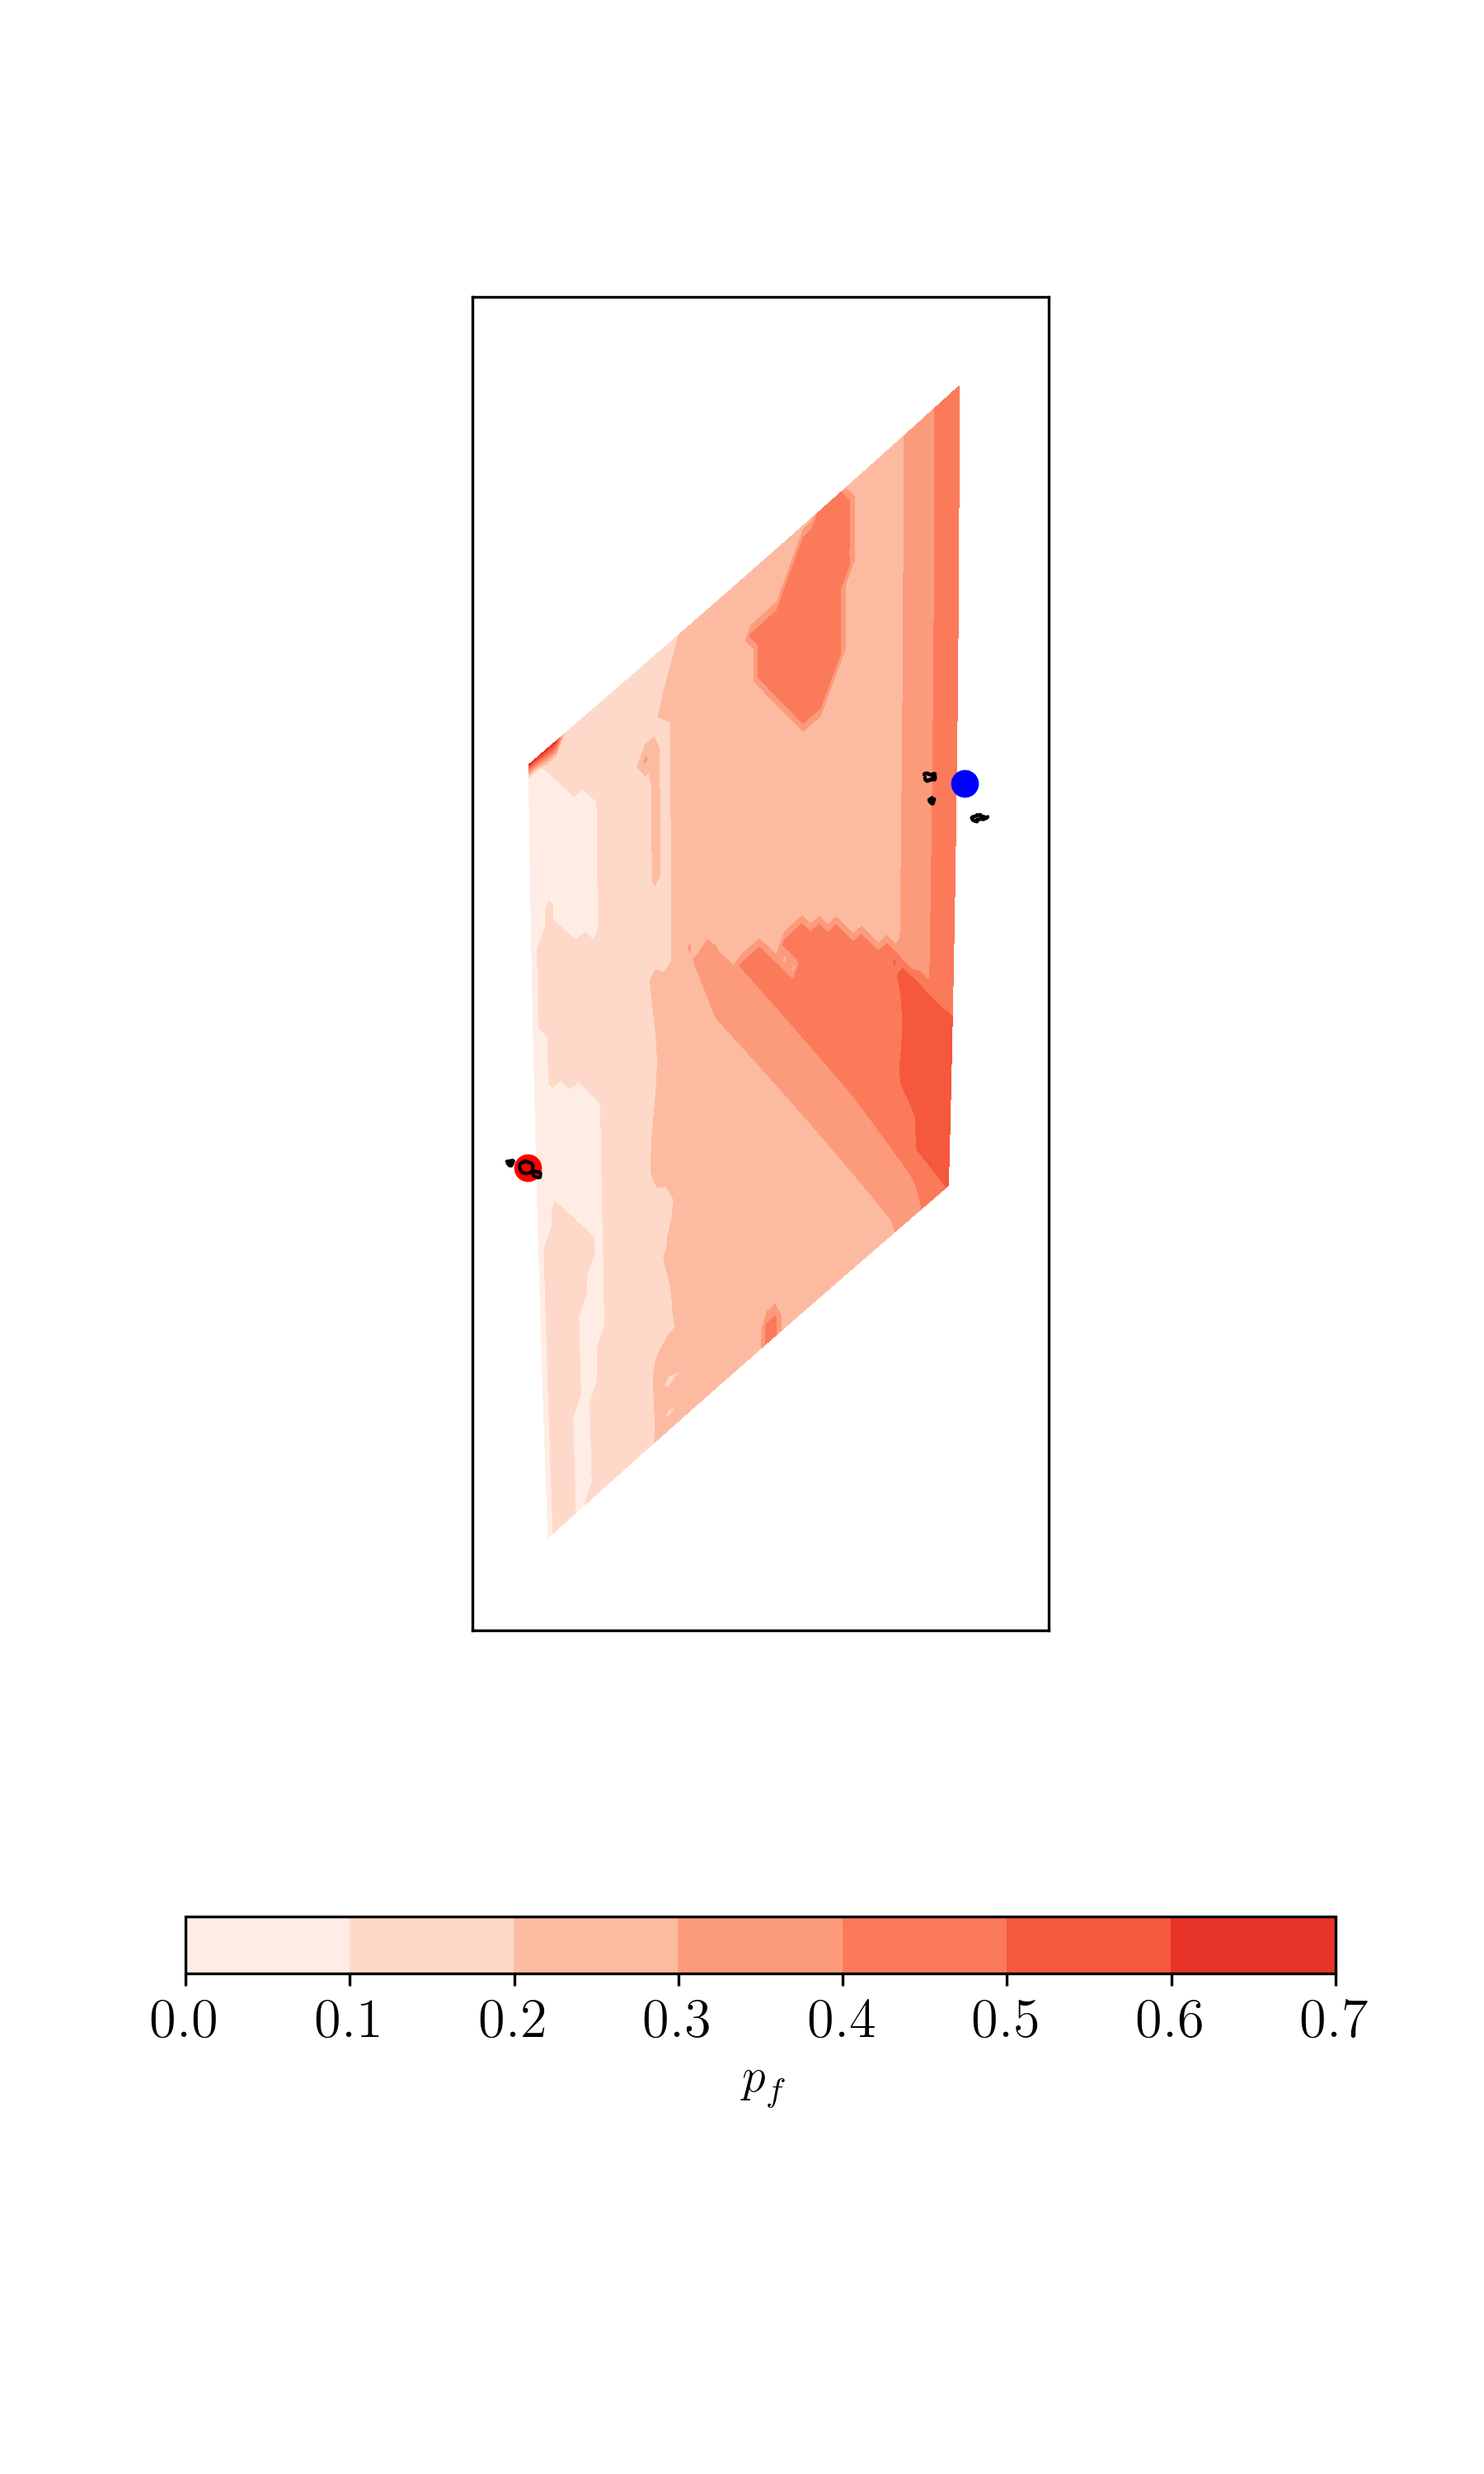
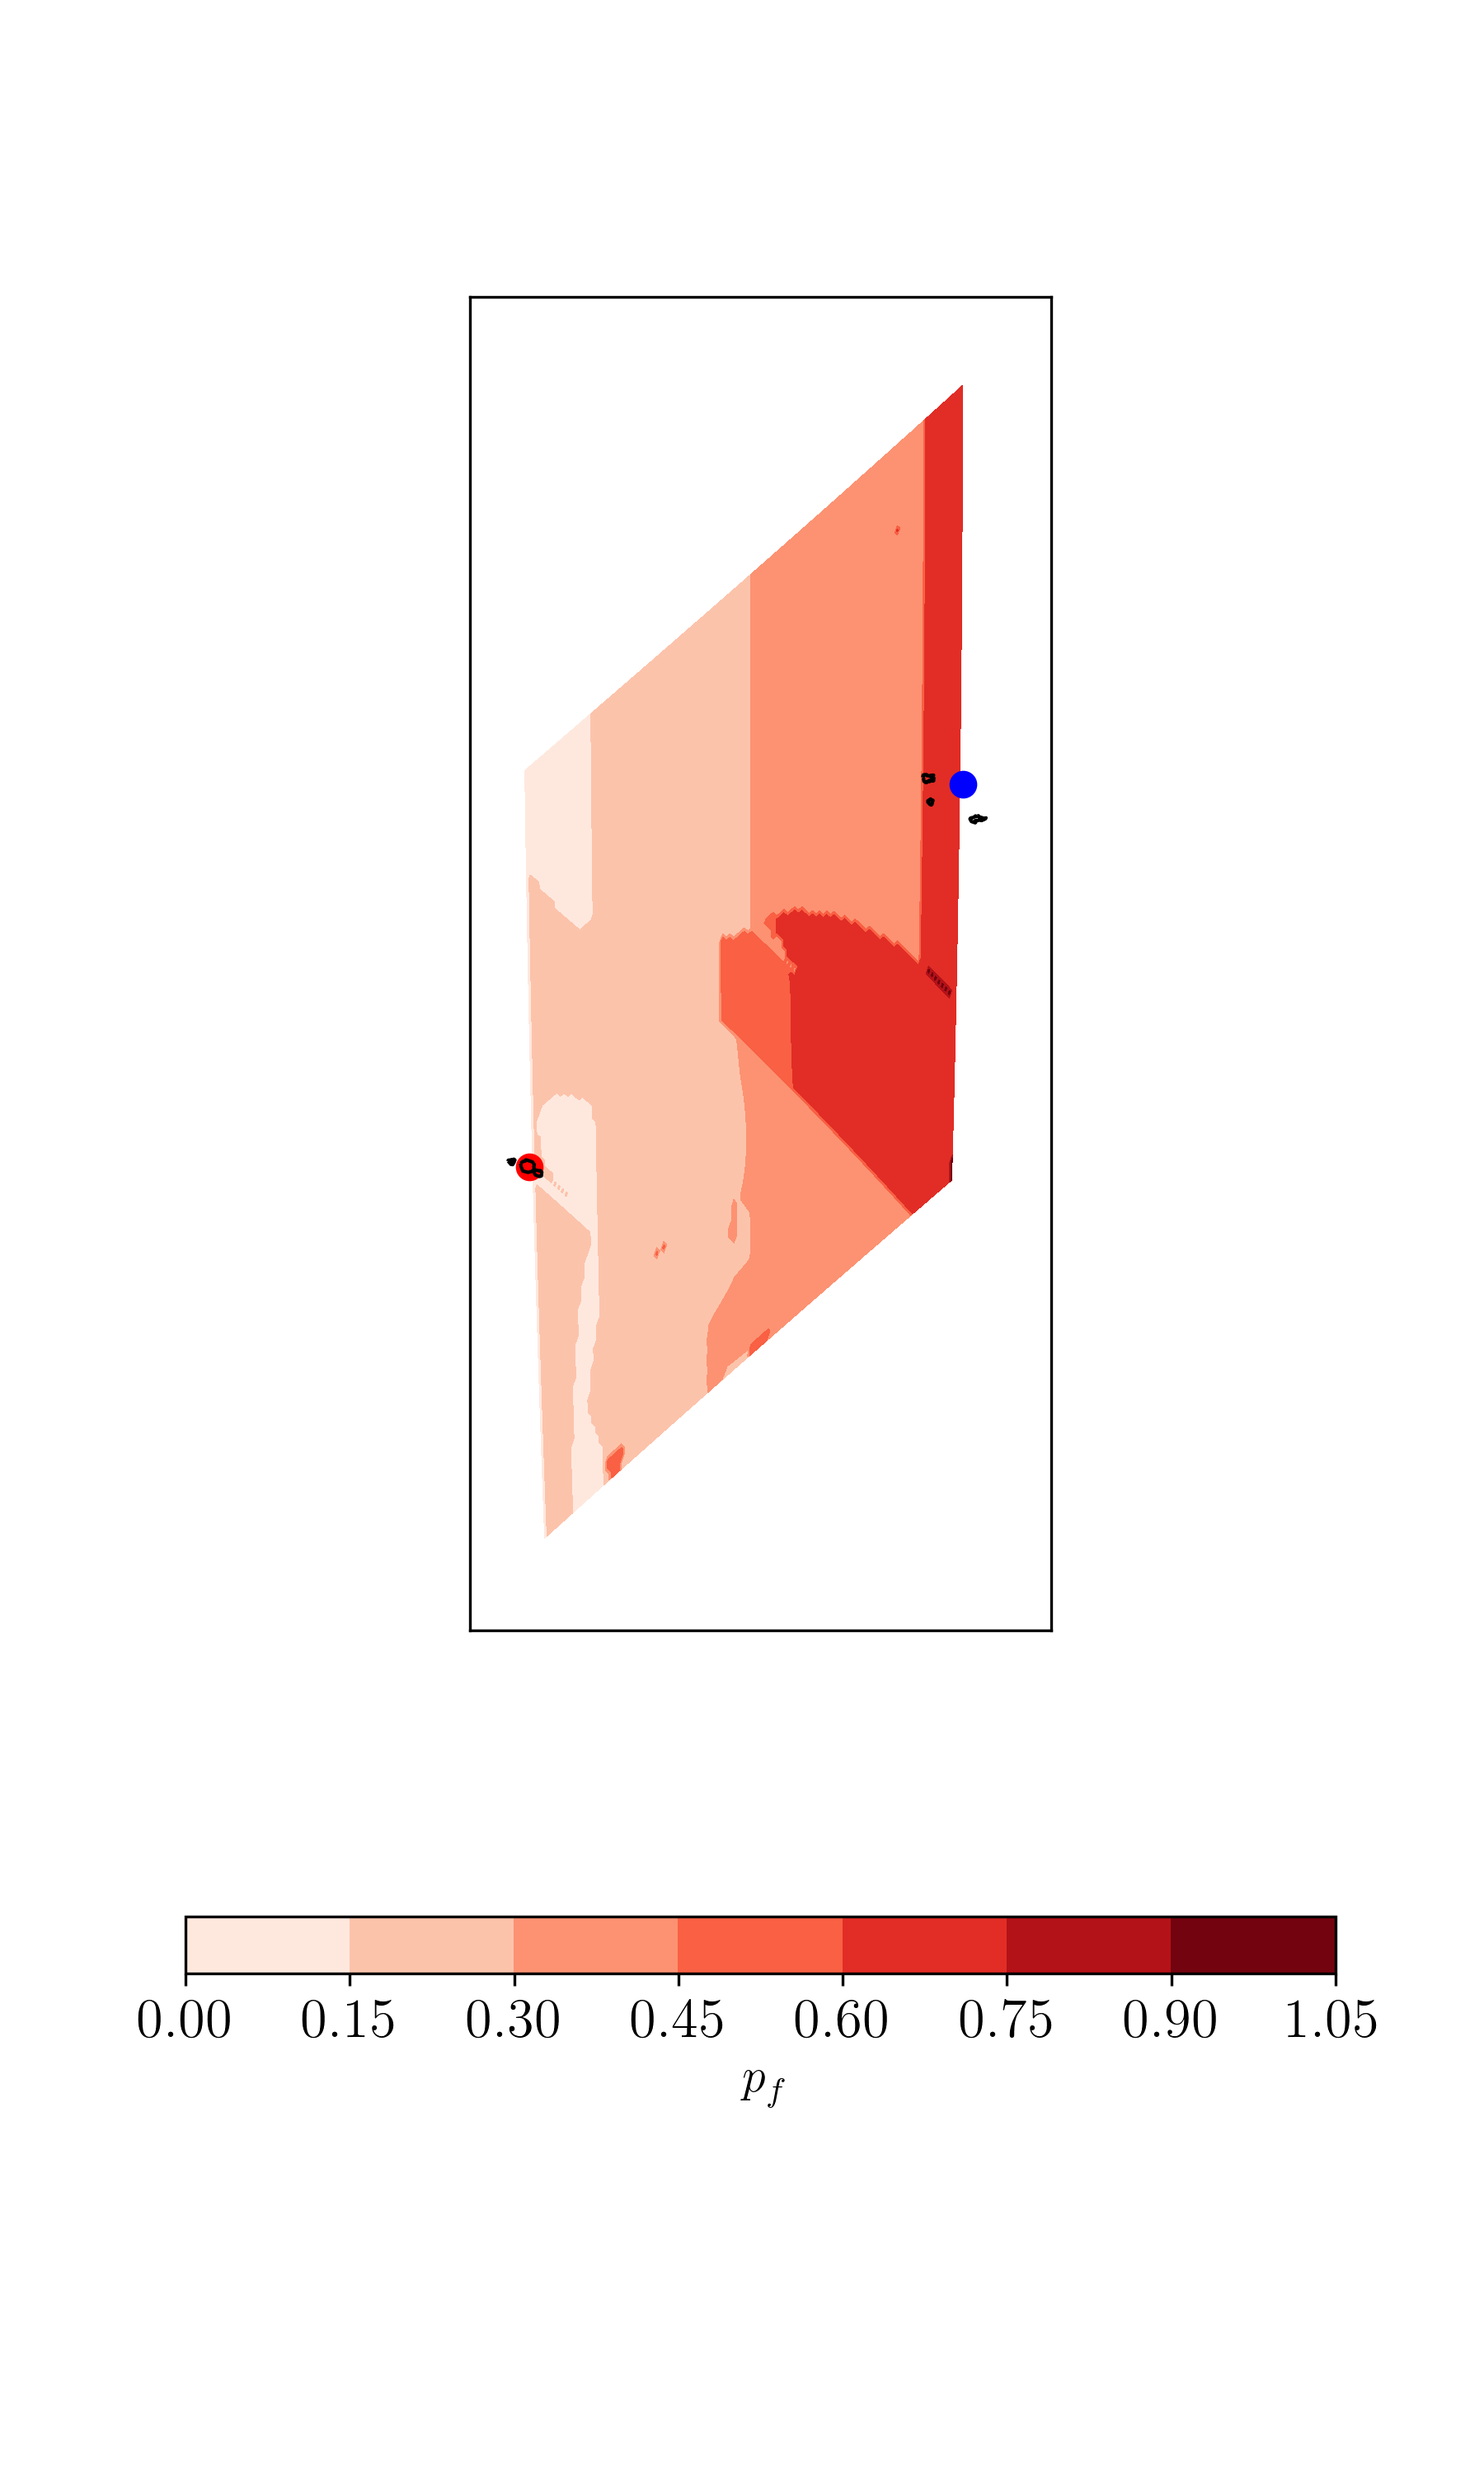
shortest path working

diff --git a/sail_route/sail_routing.py b/sail_route/sail_routing.py
@@ -4,6 +4,8 @@ Thomas Dickson
 thomas.dickson@soton.ac.uk
 """
 
+import sys
+import inspect
 import numpy as np
 import datetime
 from datetime import datetime
@@ -14,11 +16,20 @@ from mpl_toolkits.basemap import Basemap
 import matplotlib.pyplot as plt
 from sail_route.time_func import timefunc
 from sail_route.route.grid_locations import gen_indx
-from sail_route.route.solve_route import shortest_path
+from sail_route.route.solve_route import shortest_path, get_locs
 from sail_route.performance.cost_function import cost_function
 from sail_route.weather.weather_assistance import return_domain, \
                                        setup_interpolator
 warnings.filterwarnings("ignore")
+
+def recompile_nb_code():
+    this_module = sys.modules[__name__]
+    module_members = inspect.getmembers(this_module)
+
+    for member_name, member in module_members:
+        if hasattr(member, 'recompile') and hasattr(member, 'inspect_llvm'):
+            member.recompile()
+recompile_nb_code()
 
 
 plt.rcParams['savefig.dpi'] = 300
@@ -100,7 +111,6 @@ def min_time_calculate(route, time, craft, x, y, land, tws, twd, wd, wh, wp):
             i_twd = twd_interp([x[i, j], y[i, j], time]).data
             lifetime = utime - time
             for k in range(route.n_width):
-                    print(indxs[k, j+1])
                     if land[k, j+1] is True:
                         earl_time[k, j+1] == np.inf
                     else:
@@ -120,10 +130,12 @@ def min_time_calculate(route, time, craft, x, y, land, tws, twd, wd, wh, wp):
 
     for i in range(route.n_width):
         time = datetime.fromtimestamp(earl_time[i, -1])
-        print(indxs[i, -1])
-        i_tws = tws_interp([x[i, -1], y[i, -1], time]).data
-        i_twd = twd_interp([x[i, -1], y[i, -1], time]).data
-        travel_time, pf = cost_function(x[i, -1], y[i, -1],
+        i_tws = tws_interp([x[i, -1],
+                           y[i, -1], time]).data
+        i_twd = twd_interp([x[i, -1],
+                           y[i, -1], time]).data
+        travel_time, pf = cost_function(x[i, -1],
+                                        y[i, -1],
                                         route.finish.long,
                                         route.finish.lat,
                                         i_tws, i_twd,
@@ -135,10 +147,9 @@ def min_time_calculate(route, time, craft, x, y, land, tws, twd, wd, wh, wp):
             journey_time = et.timestamp()
             pf_vals[i, -1] = pf
             end_node = indxs[i, -1]
-    print(indxs)
-    print(pindxs)
-    print(shortest_path(indxs, pindxs, [end_node]))
-    return journey_time, earl_time, pf_vals
+    sp = shortest_path(indxs, pindxs, [end_node])
+    x_route, y_route = get_locs(indxs, sp, x, y)
+    return journey_time, earl_time, pf_vals, x_route, y_route
 
 
 def min_vals(x, y, et):
@@ -171,9 +182,8 @@ def timestamp_to_delta_time(start, x):
     return round_timedelta(delta, timedelta(minutes=1))
 
 
-def plot_mt_route(start, route, x, y, et, jt, fname):
+def plot_mt_route(start, route, x, y, x_r, y_r, et, jt, fname):
     """Plot minimum time output from routing simulations."""
-    x_locs, y_locs, et_s = min_vals(x, y, et)
     vt = datetime.fromtimestamp(jt) - start
     add_param = 2
     res = 'i'
@@ -192,6 +202,8 @@ def plot_mt_route(start, route, x, y, et, jt, fname):
     map.scatter(r_s_x, r_s_y, color='red', s=50, label='Start')
     r_f_x, r_f_y = map(route.finish.long, route.finish.lat)
     map.scatter(r_f_x, r_f_y, color='blue', s=50, label='Finish')
+    x_r, y_r = map(x_r, y_r)
+    map.plot(x_r, y_r, color='green')
     x, y = map(x, y)
     ctf = map.contourf(x, y, et, cmap='gray')
     cbar = plt.colorbar(ctf, orientation='horizontal')

diff --git a/analysis/canoe_voyaging.py b/analysis/canoe_voyaging.py
@@ -4,7 +4,6 @@ Thomas Dickson
 thomas.dickson@soton.ac.uk
 25/04/18
 """
-
 from context import sail_route
 import numpy as np
 from datetime import datetime, timedelta
@@ -52,7 +51,7 @@ def run_simulation_over_days():
     tahiti = Location(-149.426, -17.651)
     marquesas = Location(-139.33, -9)
     craft = load_tongiaki_perf()
-    no_nodes = 3
+    no_nodes = 120
     dist, bearing = haversine(tahiti.long, tahiti.lat, marquesas.long,
                               marquesas.lat)
     node_distance = (dist/0.5399565)/no_nodes
@@ -61,22 +60,22 @@ def run_simulation_over_days():
     pyroute_path = "/home/thomas/Documents/pyroute/"
     wind_fname = pyroute_path + "analysis/poly_data/data_dir/wind_forecast.nc"
     waves_fname = pyroute_path + "analysis/poly_data/data_dir/wave_data.nc"
-    diagram_path = pyroute_path + "analysis/poly_data"
+    dia_path = pyroute_path + "analysis/poly_data"
     sd = datetime(2000, 7, 1, 0, 0)
-    ed = datetime(2000, 7, 2, 0, 0)
+    ed = datetime(2000, 7, 10, 0, 0)
     dt = [d for d in datetime_range(sd, ed, {'days': 1, 'hours': 0})]
     for t in dt:
         x, y, land = return_co_ords(r.start.long, r.finish.long,
                                     r.start.lat, r.finish.lat,
                                     r.n_ranks, r.n_width, r.d_node)
         tws, twd, wd, wh, wp = return_domain(wind_fname, waves_fname)
-        jt, et, pf_vals = min_time_calculate(r, t, craft,
-                           x, y, land,
-                           tws, twd, wd, wh, wp)
+        jt, et, pf_vals, x_r, y_r = min_time_calculate(r, t, craft,
+                                                       x, y, land,
+                                                       tws, twd, wd, wh, wp)
         vt = datetime.fromtimestamp(jt) - t
         print("Journey time is: ", vt)
-        plot_mt_route(t, r, x, y, et, jt, diagram_path+"/"+str(t))
-        plot_reliability_route(t, r, x, y, pf_vals, jt, diagram_path+"/"+str(t))
+        plot_mt_route(t, r, x, y, x_r, y_r, et, jt, dia_path+"/"+str(t))
+        plot_reliability_route(t, r, x, y, pf_vals, jt, dia_path+"/"+str(t))
 
 
 def grid_error():

diff --git a/analysis/shortest_path.py b/analysis/shortest_path.py
@@ -29,13 +29,37 @@ def shortest_path(indx, pindx, sp):
         return shortest_path(indx, pindx, sp)
 
 
+def gen_fake_grid():
+    x = np.linspace(0, 10, 3)
+    y = np.linspace(0, 10, 3)
+    X, Y = np.meshgrid(x, y)
+    return X, Y
+
+
+def get_locs(indx, sp, x_locs, y_locs):
+    """Get the locations of the points on the shortest path."""
+    X = []
+    Y = []
+    for k in sp[:-1]:
+        i, j = np.where(indx == k)
+        X.append(x_locs[i, j])
+        Y.append(y_locs[i, j])
+    return X, Y
+
+
 if __name__ == '__main__':
     sd = gen_sample_data()
     indxs, pindxs = gen_indx(sd)
-    # print("Inputs to shortest path routine")
+    # `print`("Inputs to shortest path routine")
     # print(sd)
     # print(indxs)
     # print(pindxs)
     spr = shortest_path(indxs, sd, [5])
-    print("Outputs")
+    # print("Outputs")
+    # print(spr)
+    X, Y = gen_fake_grid()
+    x_l, y_l = get_locs(indxs, spr, X, Y)
+    print(indxs)
     print(spr)
+    print(x_l)
+    print(y_l)

diff --git a/sail_route/route/solve_route.py b/sail_route/route/solve_route.py
@@ -18,6 +18,18 @@ def shortest_path(indx, pindx, sp):
     pix = pindx[ix[0][0], ix[0][1]]
     sp.append(pix)
     if pix == -1:
-        return sp
+        return np.array(sp)
     else:
         return shortest_path(indx, pindx, sp)
+
+
+@jit
+def get_locs(indx, sp, x_locs, y_locs):
+    """Get the locations of the points on the shortest path."""
+    X = []
+    Y = []
+    for k in sp[:-1]:
+        i, j = np.where(indx == k)
+        X.append(x_locs[i, j].view())
+        Y.append(y_locs[i, j].view())
+    return X, Y

diff --git a/sail_route/performance/cost_function.py b/sail_route/performance/cost_function.py
@@ -63,6 +63,6 @@ def cost_function(x1, y1, x2, y2, tws, twd, i_wd, i_wh, i_wp,
     else:
         pf = 0.0
     if speed == 0.0:
-        return datetime.timedelta(hours=100), pf
+        return datetime.timedelta(hours=200), pf
     else:
         return datetime.timedelta(hours=np.float64(dist/speed)), pf
